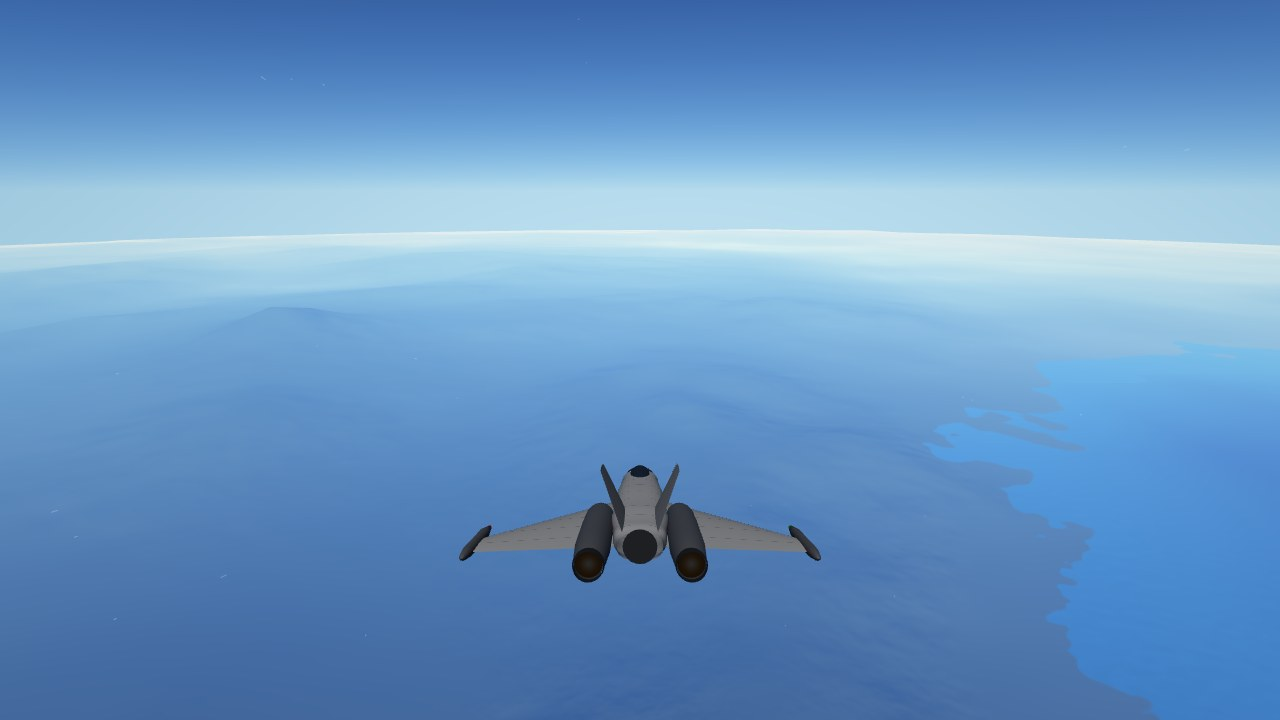
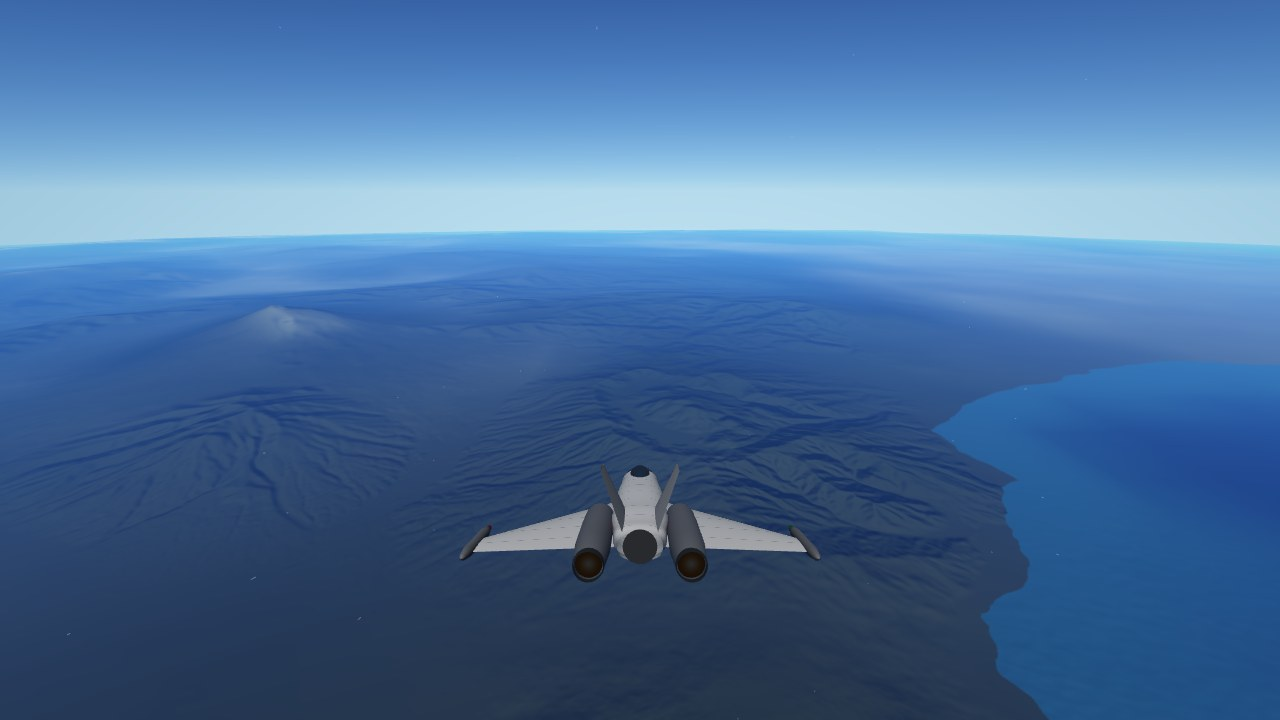
Draw dry land below sea level as land instead of sea, and retake the README haze image
- Land below sea level that is not connected to the ocean and looks like sand
  or rock in the surface image now counts as land (Qattara, Danakil, Turpan,
  Death Valley, the Jordan Valley); lakes that look like water stay water
- The coastline tool now needs SciPy for the connectivity check
- Add the haze shot to the gallery retake tool and retake it

diff --git a/tools/make_earth_assets.py b/tools/make_earth_assets.py
@@ -15,7 +15,7 @@
   どちらも 8192x4096（配布する版も。--hq を付けても同じ）
 
 使い方: python3 tools/make_earth_assets.py <作業ディレクトリ> [出力先=assets]
-必要なもの: Pillow と NumPy（ダウンロード 約 300 MB。ほかに make_earth_detail.py と同じ 約 930 MB）
+必要なもの: Pillow と NumPy と SciPy（ダウンロード 約 300 MB。ほかに make_earth_detail.py と同じ 約 930 MB）
 """
 import os
 import sys
@@ -23,6 +23,7 @@ import struct
 import urllib.request
 import numpy as np
 from PIL import Image, ImageChops, ImageFilter, ImageMath
+from scipy import ndimage
 
 import make_earth_detail
 
@@ -78,10 +79,15 @@ def land_fraction(work, color):
     5 分角に間引いた標高で決めると、瀬戸内海のような幅 10〜50 km の海が陸になる（四国・九州が本州と陸続きに見えた）。
     海陸: 標高 0 m 以上を陸とする。ただし地表画像で水の色の所（カスピ海などの湖）は水、
     海面下でも暗くなく水の色でない浅い所（オランダの干拓地・カスピ海の北の低地など）は陸。
-    地表画像の浅い内海はほとんど黒い（瀬戸内海・東京湾）ので、暗い所はこの例外から除く"""
+    地表画像の浅い内海はほとんど黒い（瀬戸内海・東京湾）ので、暗い所はこの例外から除く。
+    海とつながっていない海面下の土地は、地表画像で砂や岩の色（赤みがあって明るい）の所を陸にする（カッターラ低地 -133 m・
+    トルファン盆地 -154 m・ダナキル低地 -125 m・デスバレー -86 m・ヨルダン渓谷など。どれも 50 m より深い）。
+    海とつながった所は広げない（南極などの海氷・凍った入り江が陸になる）。水の色の所（死海・ソルトン湖）と、
+    凍った湖（白い）・濁った湖の岸（赤みが無いか暗い）は水のまま"""
     big = make_earth_detail.W, make_earth_detail.H
     tile = make_earth_detail.TILE
-    land = np.zeros((big[1], big[0]), np.uint8)
+    land = np.zeros((big[1], big[0]), bool)
+    dry = np.zeros((big[1], big[0]), bool)   # 海面下でも、海から離れていれば陸にする色の所
     for r in range(big[1] // tile):
         e = make_earth_detail.load_band(work, r)
         e = np.concatenate([e[:, big[0] // 2:], e[:, :big[0] // 2]], axis=1)   # 経度 -180° を左端に
@@ -91,8 +97,29 @@ def land_fraction(work, color):
         R, G, B = c[..., 0], c[..., 1], c[..., 2]
         water = (B > np.maximum(R, G) + 8) | ((R + G + B < 100) & (B >= R))
         landish = (e >= 0) | ((e > -50) & (R >= B) & (R + G + B >= 60))
-        land[r * tile:(r + 1) * tile] = (landish & ~water) * 255
-    return Image.fromarray(land).resize((W, H), Image.BOX)
+        land[r * tile:(r + 1) * tile] = landish & ~water
+        dry[r * tile:(r + 1) * tile] = ~water & (R >= B + 15) & (R + G + B >= 150)
+    # 水のつながり（斜めも含む）。経度 ±180° の端どうしもつなぎ、いちばん大きいものを海とする
+    lab, n = ndimage.label(~land, np.ones((3, 3), bool))
+    parent = np.arange(n + 1)
+
+    def root(a):
+        while parent[a] != a:
+            parent[a] = parent[parent[a]]
+            a = parent[a]
+        return a
+    for dy in (-1, 0, 1):
+        a = lab[max(0, -dy):big[1] - max(0, dy), -1]
+        b = lab[max(0, dy):big[1] - max(0, -dy), 0]
+        for p, q in set(zip(a[(a > 0) & (b > 0)].tolist(), b[(a > 0) & (b > 0)].tolist())):
+            parent[root(p)] = root(q)
+    roots = np.array([root(i) for i in range(n + 1)])
+    size = np.bincount(roots[lab].ravel(), minlength=n + 1)
+    size[0] = 0
+    sea = roots[lab] == size.argmax()
+    del lab
+    land |= dry & ~sea
+    return Image.fromarray(land.astype(np.uint8) * 255).resize((W, H), Image.BOX)
 
 
 def fill_ocean(color, land):

diff --git a/tools/retake_gallery.py b/tools/retake_gallery.py
@@ -48,6 +48,8 @@ COCKPIT = ["--cockpit", "--photo", "2"]
 SHOTS = {
     "sunset": (lambda: ["--frames", "30", "--hours", hours("2026-10-29 02:09"), "--target", "3", "--at", "35", "-134", "0.1",
                         "--face-sun", "3"], None),
+    "haze": (lambda: ["--frames", "30", "--hours", hours("2026-10-29 02:39"), "--target", "3", "--at", "35", "139", "10",
+                      "--photo", "1"], None),   # 日本の上空 10 km
     "mars_sky": (lambda: ["--frames", "30", "--hours", hours("2026-10-29 08:09"), "--target", "4", "--at", "0", "0", "0.1",
                           "--face-sun", "20"], None),   # 太陽高度 約 20°
     "mars_map": (lambda: ["--frames", "220", "--photo", "2", "--hours", hours("2026-10-29 15:43"), "--target", "4", "--warp"],

diff --git a/README.en.md b/README.en.md
@@ -525,7 +525,7 @@ The images in `assets/` are made from NASA / NOAA data by `tools/make_earth_asse
 - Music (Moon): Debussy, "Clair de lune", Laurens Goedhart, piano (2011). CC BY 3.0
 - All recordings were taken from Wikimedia Commons. To regenerate: `python3 tools/make_music_assets.py <work dir>` (requires ffmpeg; downloads about 350 MB)
 
-All of them may be used and redistributed freely, including commercially (see [THIRD_PARTY_NOTICES.md](THIRD_PARTY_NOTICES.md)). To regenerate them: `python3 tools/make_earth_assets.py <work dir>` (Earth's colors, elevations and coastlines at 8192×4096; downloads about 300 MB, and also uses the same 930 MB as make_earth_detail.py for the coastlines; also requires NumPy), `python3 tools/make_earth_detail.py <work dir>` (Earth's fine land elevations; also requires NumPy; about 930 MB), `python3 tools/make_body_detail.py <work dir>` (the fine elevations of the Moon and Mars; also requires NumPy; about 11.5 GB, 11.4 GB of it the Mars source), `python3 tools/make_detail_patches.py <work dir>` (the finer elevations for a few regions such as famous mountains; requires NumPy; about 80 MB for Earth and 0.6 GB for the Moon, plus the Mars source), `python3 tools/make_surface_props.py <work dir>` (the Moon's rock abundance and the thermal inertia and dune fields of Mars; also requires NumPy; about 140 MB) and `python3 tools/make_moon_assets.py <work dir>` (about 45 MB). All of them require Pillow. The place names come from `python3 tools/make_place_names.py <work dir>` (Python only; about 50 MB). The tools for the Earth, Earth's seasons and clouds, the Moon, the Milky Way and the planet and moon maps make a high-resolution set when `--hq` is added at the end (8192×4096 for the Moon colors and the Mercury and Mars maps, and so on; Earth's colors and elevations are 8192×4096 in the normal set too). Write it to another folder and build with `cmake -B build-hq -DEMBED_ASSET_DIR=<that folder>` to embed it (an executable of about 178 MB and about 1.2 GB of textures; the released builds use the normal resolution). The source of the Moon's 8k colors (svs.gsfc.nasa.gov) does not send its intermediate certificate, so if the download fails, add the Let's Encrypt intermediate certificate.
+All of them may be used and redistributed freely, including commercially (see [THIRD_PARTY_NOTICES.md](THIRD_PARTY_NOTICES.md)). To regenerate them: `python3 tools/make_earth_assets.py <work dir>` (Earth's colors, elevations and coastlines at 8192×4096; downloads about 300 MB, and also uses the same 930 MB as make_earth_detail.py for the coastlines; also requires NumPy and SciPy), `python3 tools/make_earth_detail.py <work dir>` (Earth's fine land elevations; also requires NumPy; about 930 MB), `python3 tools/make_body_detail.py <work dir>` (the fine elevations of the Moon and Mars; also requires NumPy; about 11.5 GB, 11.4 GB of it the Mars source), `python3 tools/make_detail_patches.py <work dir>` (the finer elevations for a few regions such as famous mountains; requires NumPy; about 80 MB for Earth and 0.6 GB for the Moon, plus the Mars source), `python3 tools/make_surface_props.py <work dir>` (the Moon's rock abundance and the thermal inertia and dune fields of Mars; also requires NumPy; about 140 MB) and `python3 tools/make_moon_assets.py <work dir>` (about 45 MB). All of them require Pillow. The place names come from `python3 tools/make_place_names.py <work dir>` (Python only; about 50 MB). The tools for the Earth, Earth's seasons and clouds, the Moon, the Milky Way and the planet and moon maps make a high-resolution set when `--hq` is added at the end (8192×4096 for the Moon colors and the Mercury and Mars maps, and so on; Earth's colors and elevations are 8192×4096 in the normal set too). Write it to another folder and build with `cmake -B build-hq -DEMBED_ASSET_DIR=<that folder>` to embed it (an executable of about 178 MB and about 1.2 GB of textures; the released builds use the normal resolution). The source of the Moon's 8k colors (svs.gsfc.nasa.gov) does not send its intermediate certificate, so if the download fails, add the Let's Encrypt intermediate certificate.
 
 ## Display language (日本語 / English)
 

diff --git a/CHANGELOG.md b/CHANGELOG.md
@@ -4,6 +4,11 @@
 
 リリースの時は、その版の項目が GitHub のリリースノートにも載ります。
 
+## 2.70.3 (2026-11-25)
+
+- 地球の海面より低い乾いた土地が海に描かれていたのを直した（カッターラ低地 -133 m・ダナキル低地・トルファン盆地・デスバレー・ヨルダン渓谷・アルゼンチンの低地など）。海とつながっていない海面下の土地は、地表の画像で砂や岩の色の所を陸にする。死海・ソルトン湖など水の色の湖は水のまま（湖の形も実際に近くなった）。海とつながった所は変えない。標高のデータは陸の 0 m 未満を表せないので、低地は 0 m の平らな陸として描かれる。2004 年の地表の画像で淡い青緑の死海の南の塩田は、大部分が陸になる
+- README の「高度 10 km から見た、かすむ地平線」の画像を今の版で撮り直した
+
 ## 2.70.2 (2026-11-24)
 
 - ブラウザ版で、マウスを画面に捕まえる要求をブラウザが断った時（マウスを放した直後など）に、ページの例外が出ていたのを直した。断られても、もう一度クリックすれば捕まえられる（動作は変わらない）

diff --git a/CHANGELOG.en.md b/CHANGELOG.en.md
@@ -4,6 +4,11 @@
 
 The release workflow copies the section of the version being released into the GitHub release notes.
 
+## 2.70.3 (2026-11-25)
+
+- Dry land below sea level on Earth was drawn as sea (the Qattara Depression at -133 m, the Danakil Depression, the Turpan Depression, Death Valley, the Jordan Valley, the depressions in Argentina and so on). Land below sea level that is not connected to the ocean now counts as land where the surface image shows sand or rock. Lakes that look like water, such as the Dead Sea and the Salton Sea, stay water (their shapes are also closer to the real ones). Areas connected to the ocean are unchanged. The elevation data cannot hold land below 0 m, so the depressions are drawn as flat land at 0 m. The salt ponds south of the Dead Sea, pale blue-green in the 2004 surface image, are mostly land
+- Retook the README image of the hazy horizon from 10 km up with the current version
+
 ## 2.70.2 (2026-11-24)
 
 - In the browser version, a page error was raised when the browser refused to capture the mouse (for example right after releasing it). It is now ignored; clicking again captures the mouse as before (behavior is unchanged)
